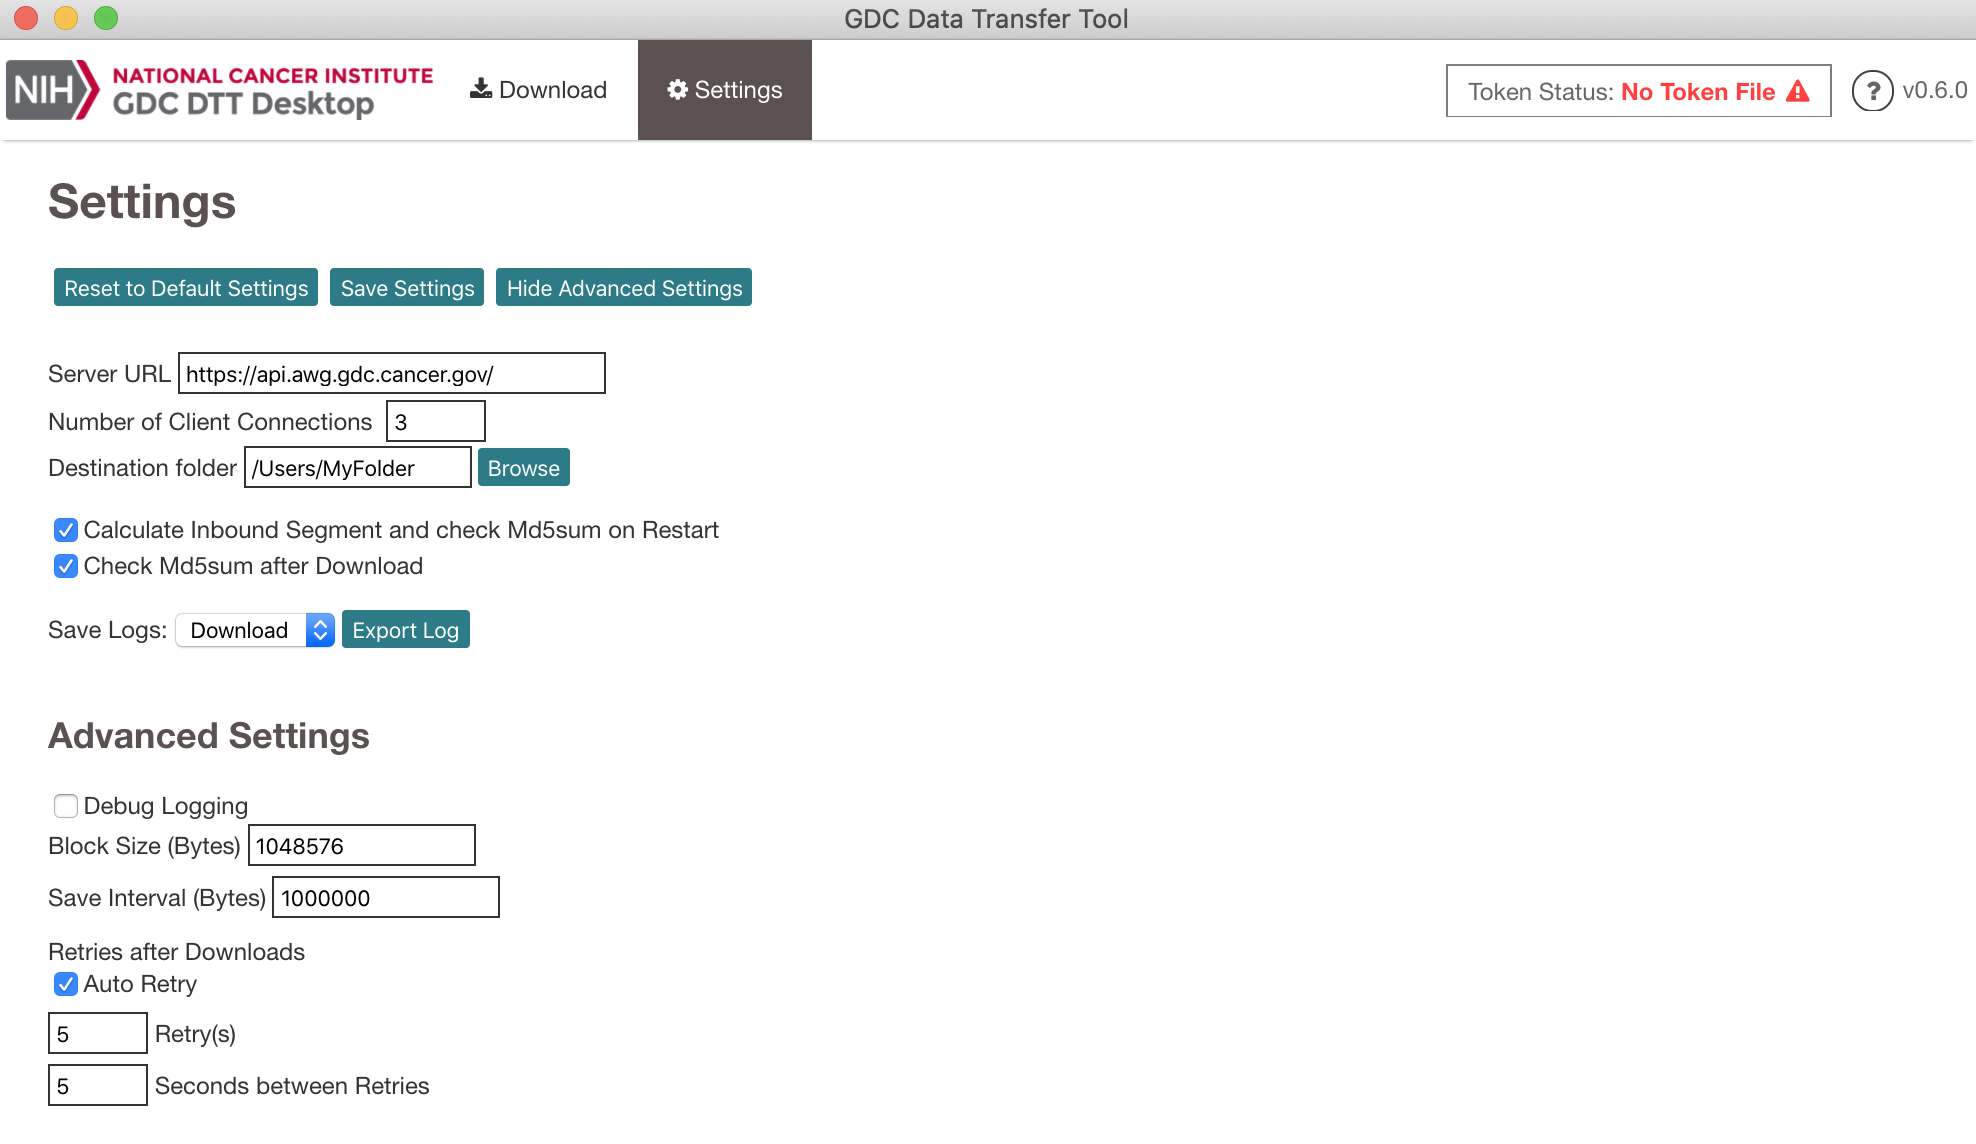
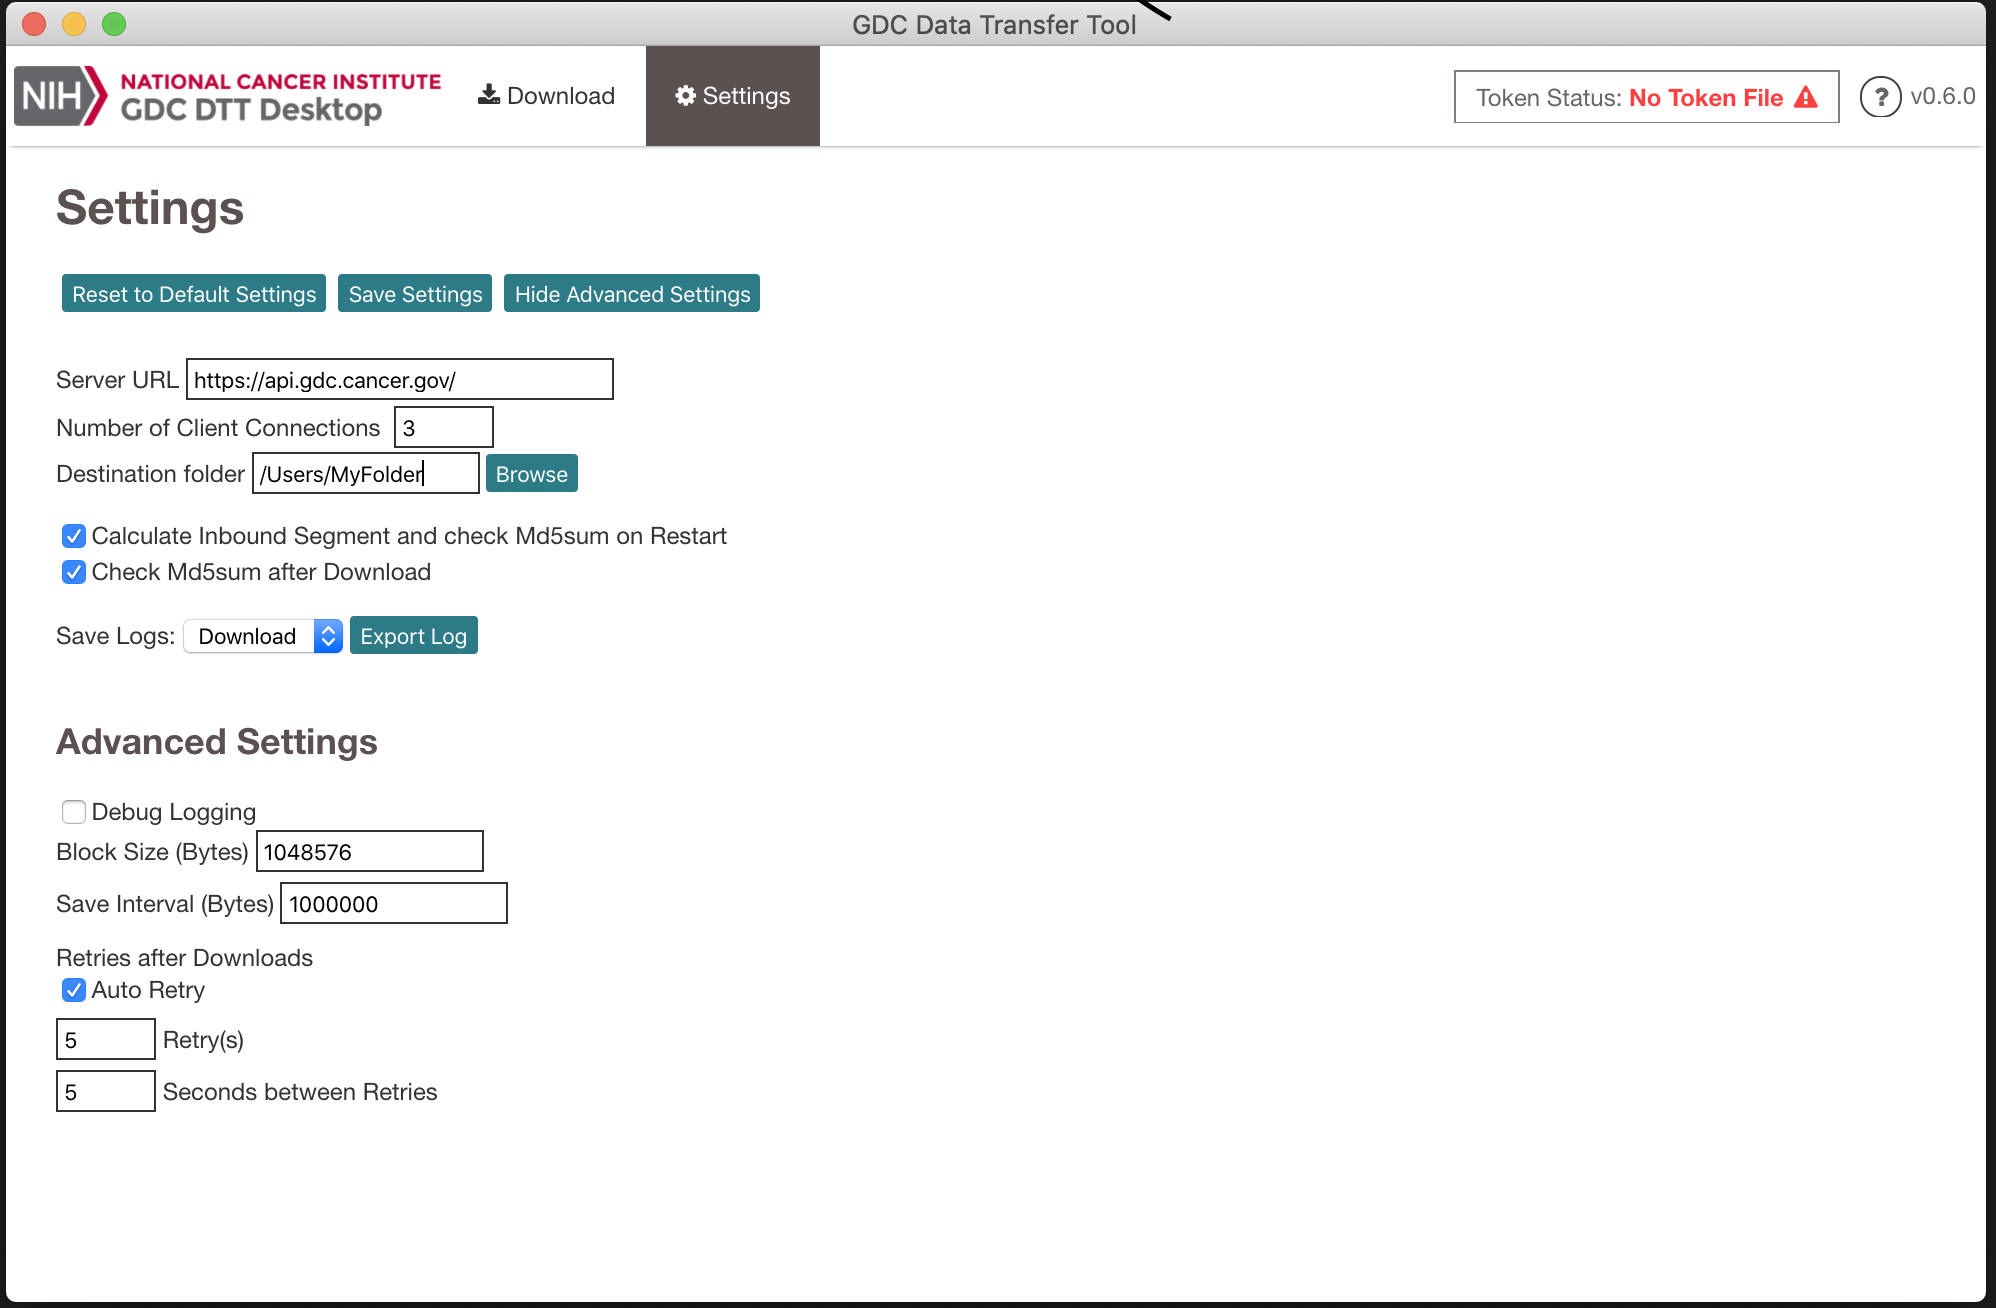
removed awg references

diff --git a/docs/Data_Transfer_Tool/Users_Guide/Appendix_B_TroubleShooting.md b/docs/Data_Transfer_Tool/Users_Guide/Appendix_B_TroubleShooting.md
@@ -51,15 +51,6 @@ Examples:
  8  192.170.230.246 (192.170.230.246)  4.158 ms  4.273 ms  5.134 ms
 ```
 
-##AWG Portal Downloads
-If a user needs to download data from our AWG portal and is using our Data Transfer Tool they will need to specify a different API server address from the current defaults.  To do so you will need to use the "-s" flag and the following server address: https://api.awg.gdc.cancer.gov .  When controlled access files need to be downloaded , only a token from the AWG portal will allow the user to download these files.  A token from either Active, Legacy, or the Submission portal will not work for controlled access files when downloading files from the AWG portal.
-
-```Example
-gdc-client download -m AWG_RNAseq_data.txt -t awg_token.txt -s https://api.awg.gdc.cancer.gov
-```
-
-
-
 ##Common Error Codes
 This is a list of the most common error codes the Data Transfer Tool generates and their meaning
 <ul TYPE="square">

diff --git a/docs/Data_Transfer_Tool/Users_Guide/Data_Download_DTT_UI.md b/docs/Data_Transfer_Tool/Users_Guide/Data_Download_DTT_UI.md
@@ -68,7 +68,7 @@ While the default download options will work for the majority of use cases, ther
 
 | Settings | Details
 |----------|---------|
-| Server URL | Default: https://api.gdc.cancer.gov, AWG Users: https://api.awg.gdc.cancer.gov |
+| Server URL | Default: https://api.gdc.cancer.gov |
 | Number of Client Connections: Default (3) | Number of concurrent client threads |
 | Destination Folder: Default (User's Home Directory) | User selectable download file location |  
 | Calculate Inbound Segment and check Md5sum on Restart: Default (On) | Verify previous partial downloaded files via segment check sum |
